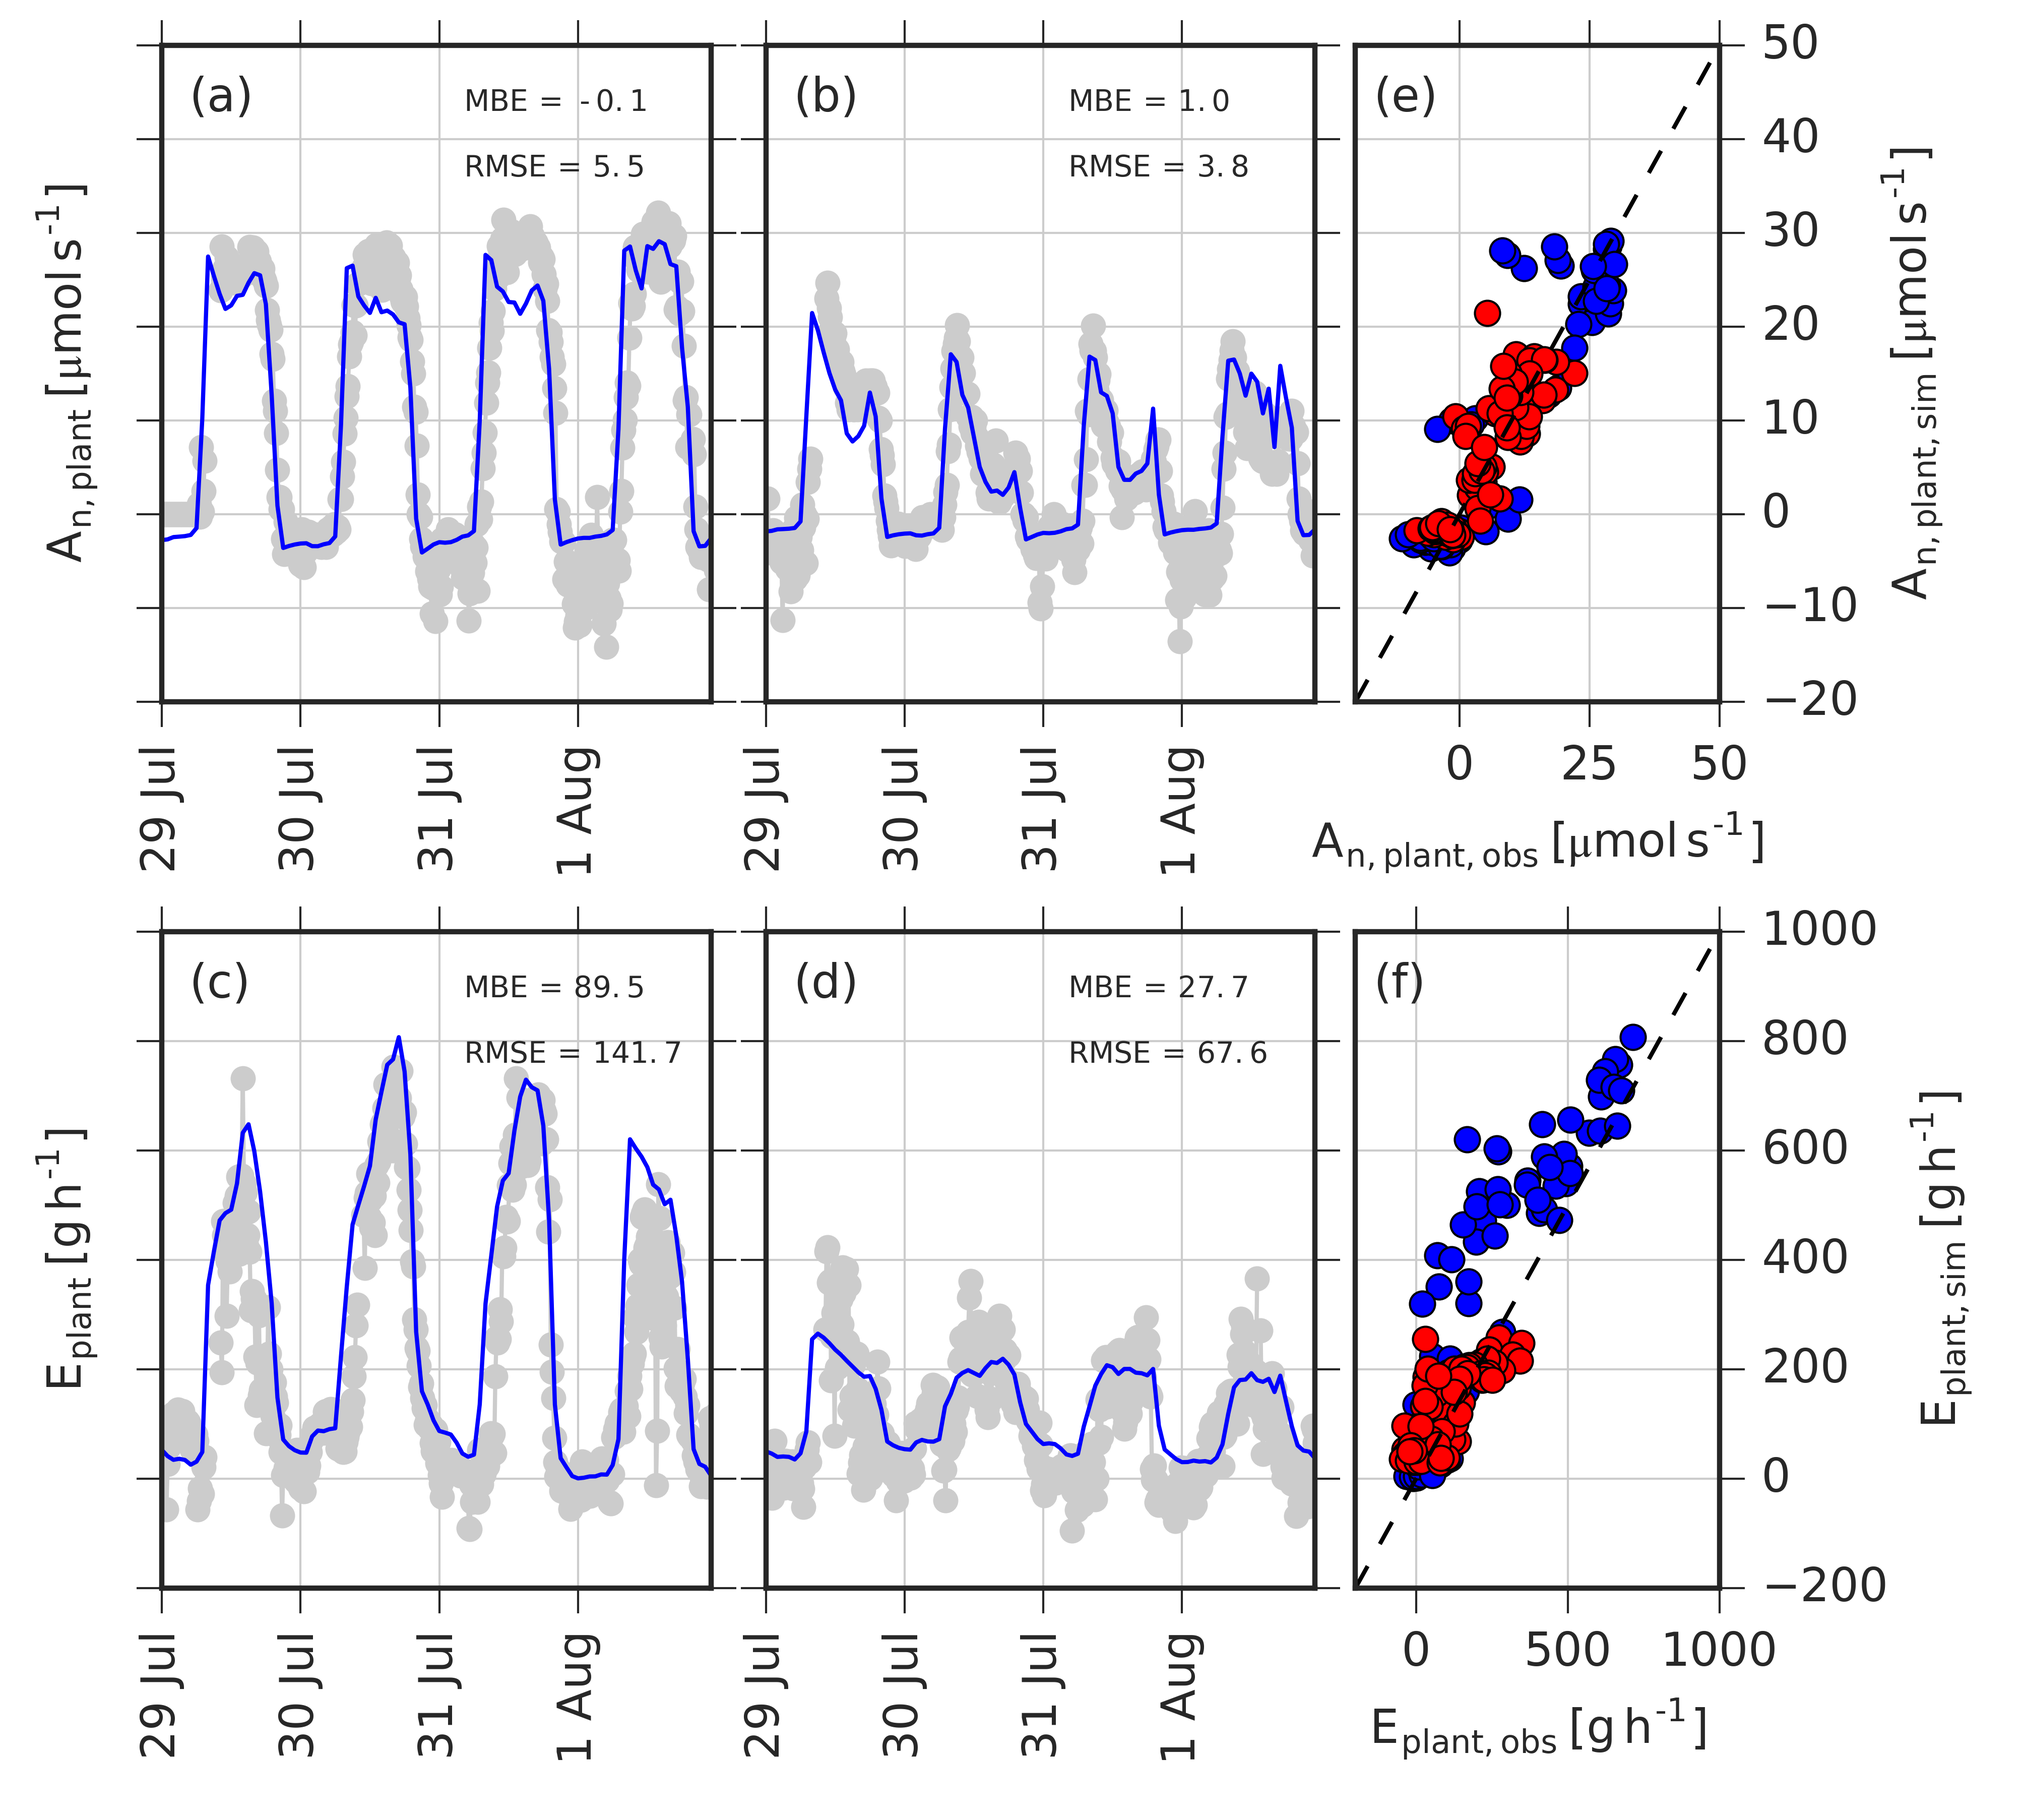
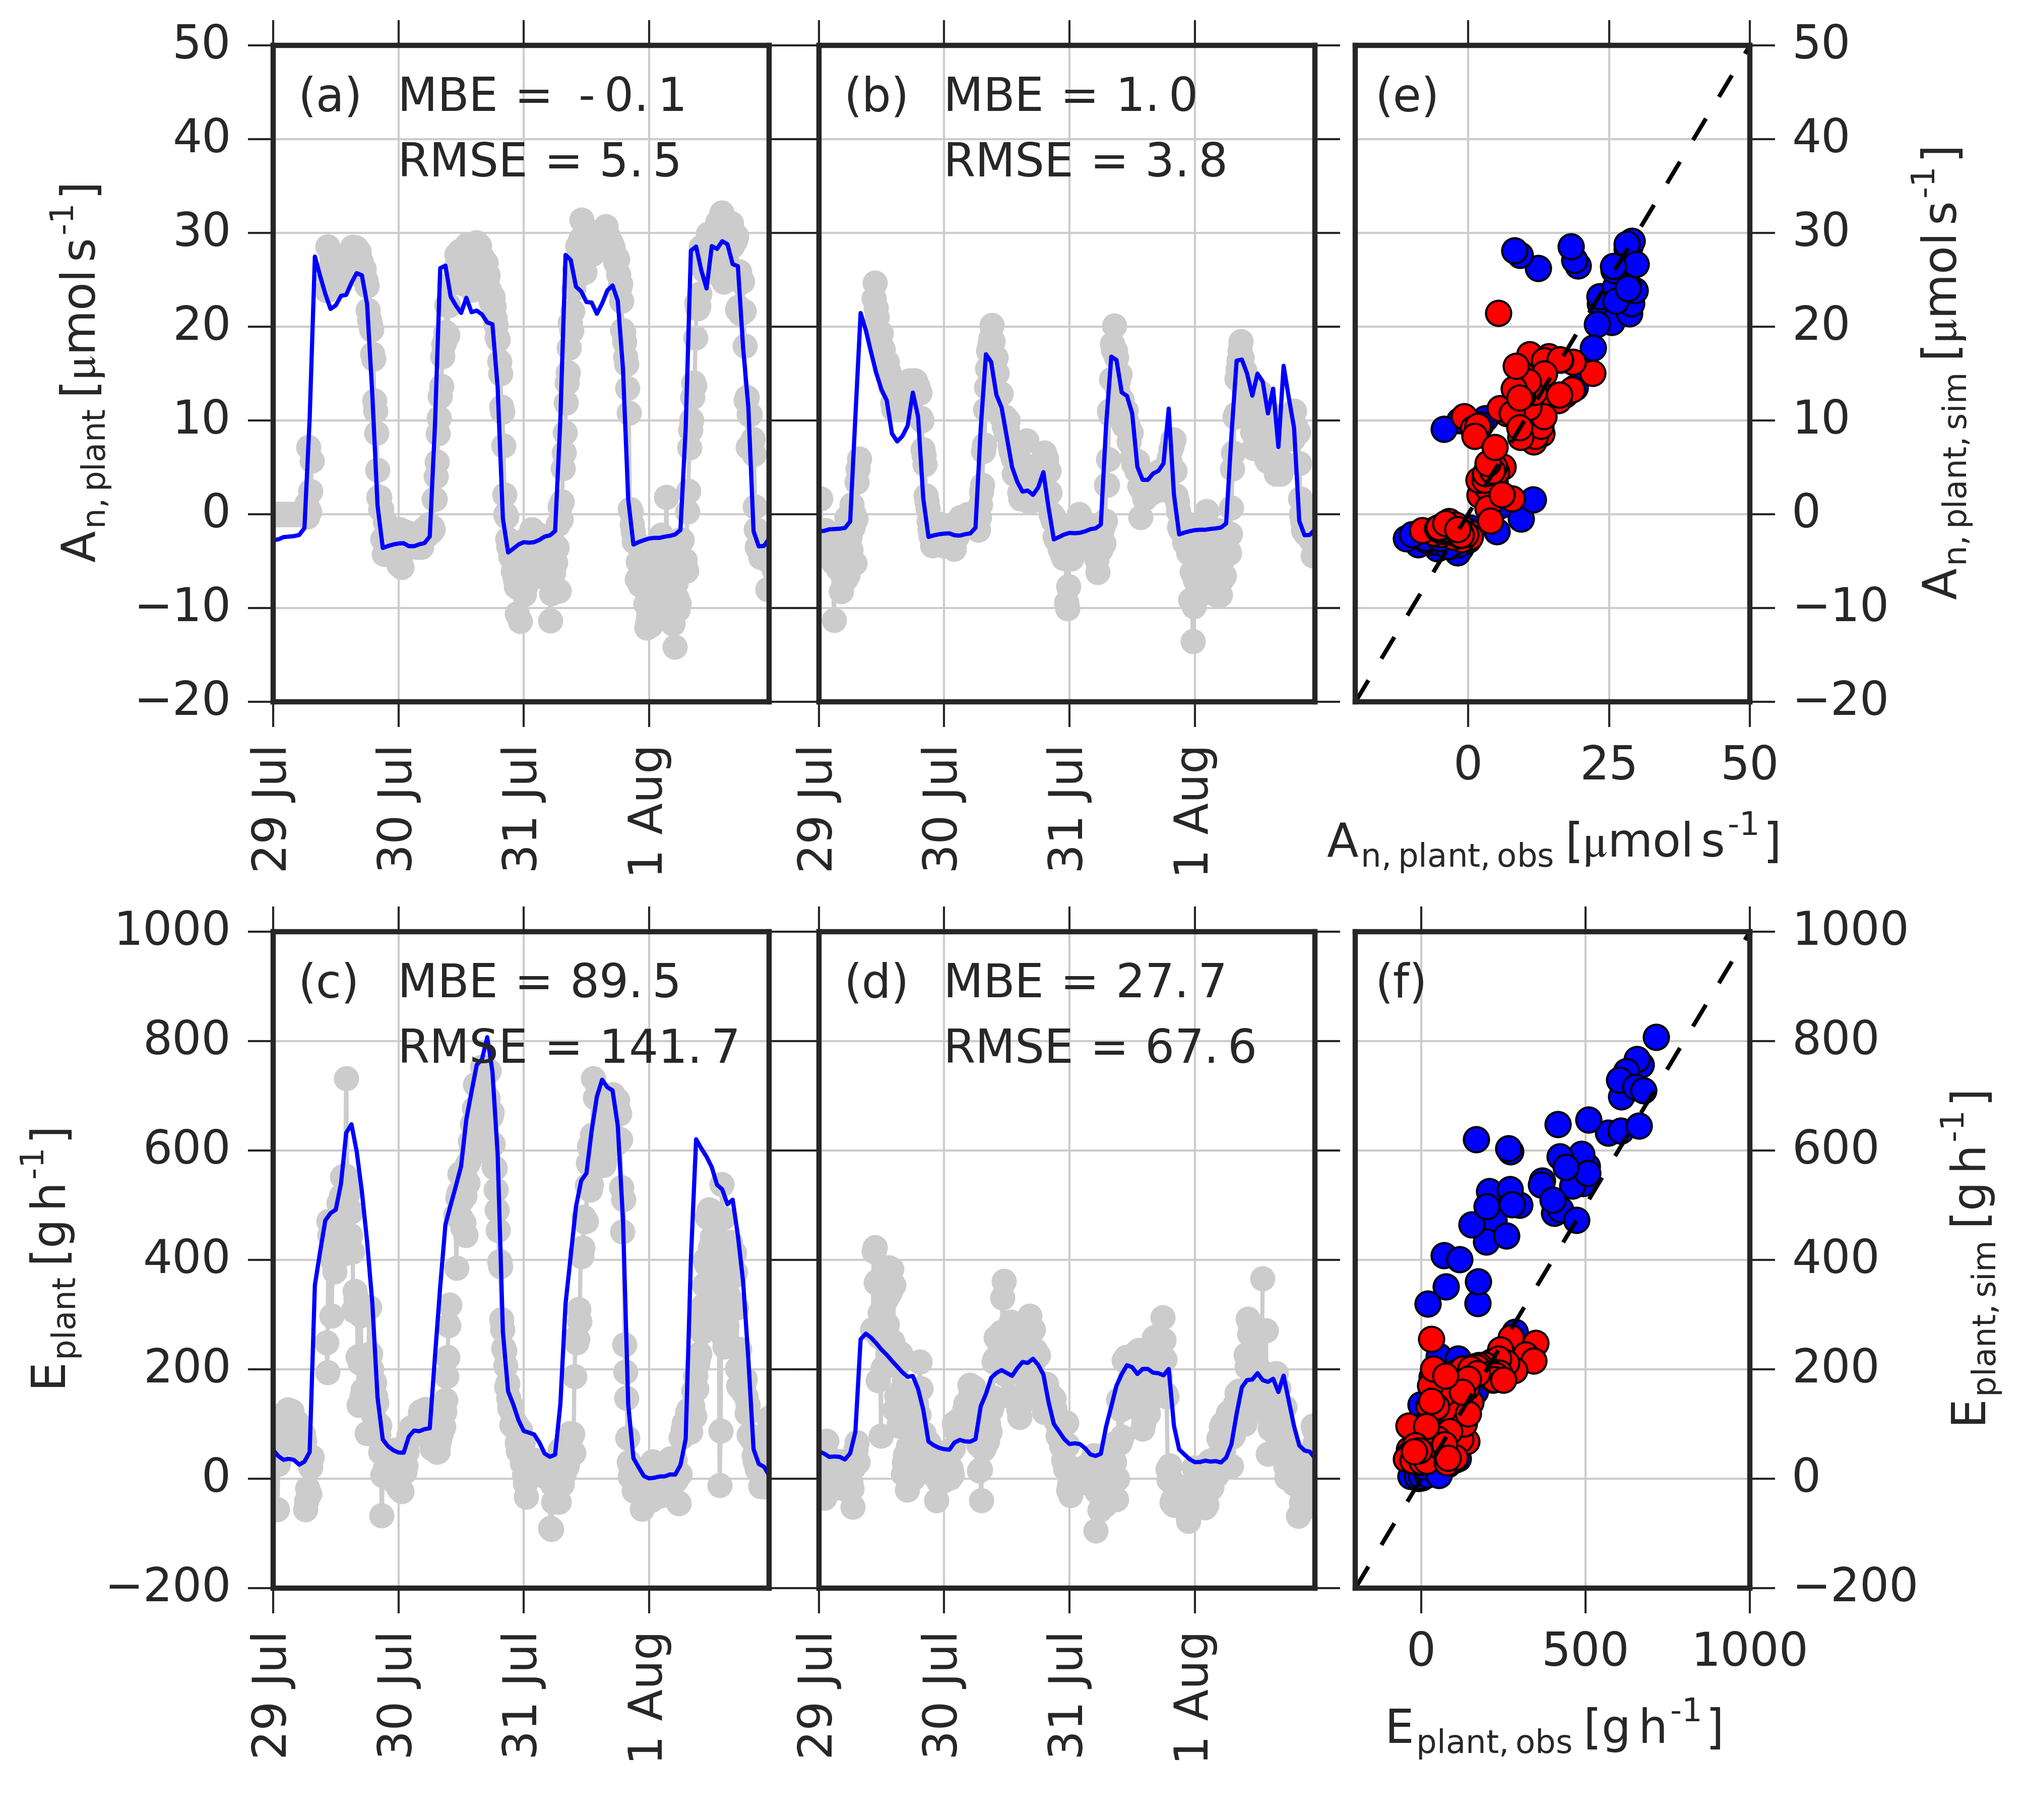
update plot_figure_13()

diff --git a/example/figs/paper_figs.py b/example/figs/paper_figs.py
@@ -494,14 +494,14 @@ def plot_figure_13():
 
     fig = pyplot.figure()
     gs1 = gridspec.GridSpec(2, 2)
-    gs1.update(left=0.08, right=0.65, top=0.975, bottom=0.125, wspace=0.1, hspace=0.35)
+    gs1.update(left=0.135, right=0.65, top=0.975, bottom=0.125, wspace=0.1, hspace=0.35)
     ax1 = pyplot.subplot(gs1[0, 0])
-    ax2 = pyplot.subplot(gs1[0, 1], sharex=ax1, sharey=ax1)
+    ax2 = pyplot.subplot(gs1[0, 1], sharex=ax1)
     ax3 = pyplot.subplot(gs1[1, 0], sharex=ax1)
-    ax4 = pyplot.subplot(gs1[1, 1], sharex=ax1, sharey=ax3)
+    ax4 = pyplot.subplot(gs1[1, 1], sharex=ax1)
 
     gs2 = gridspec.GridSpec(2, 1)
-    gs2.update(left=0.67, right=0.85, top=0.975, bottom=0.125, hspace=0.35)
+    gs2.update(left=0.67, right=0.865, top=0.975, bottom=0.125, hspace=0.35)
     ax5 = pyplot.subplot(gs2[0])
     ax6 = pyplot.subplot(gs2[1])
 
@@ -568,21 +568,21 @@ def plot_figure_13():
             bias = (y - x).mean()
             rmse = np.sqrt(((x - y) ** 2).mean())
 
-            axs[egas, iax].text(0.55, 0.90,
+            axs[egas, iax].text(0.25, 0.90,
                                 '$\mathregular{MBE\/=\/%.1f}$' % bias,
                                 transform=axs[egas, iax].transAxes,
-                                fontdict={'size': 7})
-            axs[egas, iax].text(0.55, 0.8,
+                                fontdict={'size': 11})
+            axs[egas, iax].text(0.25, 0.8,
                                 '$\mathregular{RMSE\/=\/%.1f}$' % rmse,
                                 transform=axs[egas, iax].transAxes,
-                                fontdict={'size': 7})
+                                fontdict={'size': 11})
 
     axs[0, 2].plot((-20, 50), (-20, 50), 'k--')
     axs[1, 2].plot((-200, 1000), (-200, 1000), 'k--')
 
     for i, ax in enumerate(axs.flatten()):
         ax.text(0.05, 0.9, ('(a)', '(b)', '(e)', '(c)', '(d)', '(f)')[i],
-                transform=ax.transAxes)
+                transform=ax.transAxes, fontdict={'size': 11})
 
     # some layout
     axs[0, 0].set(
@@ -594,9 +594,11 @@ def plot_figure_13():
         xlim=(beg_date, end_date),
         ylim=(-200, 1000))
     axs[0, 1].set(
-        xlim=(beg_date, end_date), ylim=(-20, 50))
+        xlim=(beg_date, end_date),
+        ylim=(-20, 50))
     axs[1, 1].set(
-        xlim=(beg_date, end_date), ylim=(-200, 1000))
+        xlim=(beg_date, end_date),
+        ylim=(-200, 1000))
     axs[0, 2].set(
         xlabel='$\mathregular{A_{n, plant, obs}\/[\mu mol\/s^{-1}]}$',
         ylabel='$\mathregular{A_{n, plant, sim}\/[\mu mol\/s^{-1}]}$',
@@ -609,6 +611,7 @@ def plot_figure_13():
         ylim=(-200, 1000))
 
     axs[0, 1].get_yaxis().set_ticklabels('')
+    axs[1, 1].get_yaxis().set_ticklabels('')
     axs[1, 1].get_yaxis().set_ticklabels('')
     axs[0, 2].yaxis.tick_right()
     axs[1, 2].yaxis.tick_right()
@@ -979,15 +982,15 @@ if __name__ == '__main__':
 
     example_pth = Path(__file__).parents[2] / 'example'
 
-    plot_figure_6()
-    plot_figure_7()
-    plot_figure_8()
-    plot_figure_9()
-    plot_figure_10()
-    plot_figure_11()
-    plot_figure_12()
+    # plot_figure_6()
+    # plot_figure_7()
+    # plot_figure_8()
+    # plot_figure_9()
+    # plot_figure_10()
+    # plot_figure_11()
+    # plot_figure_12()
     plot_figure_13()
-    plot_figure_14()
-    plot_figure_15()
-    write_table_1()
-    estimate_energy_balance_contribution()
+    # plot_figure_14()
+    # plot_figure_15()
+    # write_table_1()
+    # estimate_energy_balance_contribution()
